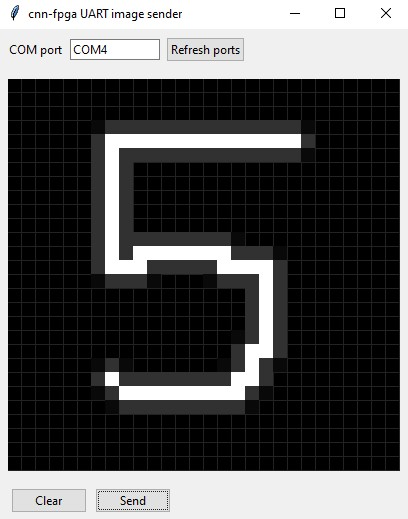
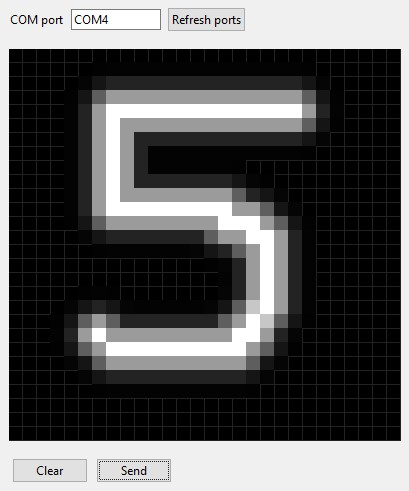
better image brush

diff --git a/python/test_fpga.py b/python/test_fpga.py
@@ -18,7 +18,8 @@ except ImportError:
 DEFAULT_BAUD = 115200
 GRID = 28
 CELL_PX = 14
-BRUSH_SIGMA = 0.55
+BRUSH_SIGMA = 0.4
+BRUSH_FADE_MULTIPLIER = 2.5
 
 
 def quantize_to_uart_bytes(image: np.ndarray) -> bytes:
@@ -137,20 +138,18 @@ def run_gui(port_hint: str = "") -> None:
         def _apply_brush_segment(self, r0: int, c0: int, r1: int, c1: int) -> None:
             x0, y0 = c0 + 0.5, r0 + 0.5
             x1, y1 = c1 + 0.5, r1 + 0.5
-            margin = int(math.ceil(self._brush_sigma * 4))
+            fade_sigma = self._brush_sigma * BRUSH_FADE_MULTIPLIER
+            margin = int(math.ceil(fade_sigma * 3.5))
             r_lo = max(0, min(r0, r1) - margin)
             r_hi = min(GRID - 1, max(r0, r1) + margin)
             c_lo = max(0, min(c0, c1) - margin)
             c_hi = min(GRID - 1, max(c0, c1) + margin)
-            inv_two_s2 = 1.0 / (2.0 * self._brush_sigma * self._brush_sigma)
-            cutoff_sq = (self._brush_sigma * 3.5) ** 2
+            inv_two_sigma = 1.0 / (2.0 * fade_sigma * fade_sigma)
             for r in range(r_lo, r_hi + 1):
                 for c in range(c_lo, c_hi + 1):
                     px, py = c + 0.5, r + 0.5
                     d_sq = _dist_sq_point_segment(px, py, x0, y0, x1, y1)
-                    if d_sq > cutoff_sq:
-                        continue
-                    v = 255.0 * math.exp(-d_sq * inv_two_s2)
+                    v = 255.0 * math.exp(-d_sq * inv_two_sigma)
                     if v > self.grid[r, c]:
                         self.grid[r, c] = v
                         self._set_cell_visual(r, c)
@@ -159,7 +158,8 @@ def run_gui(port_hint: str = "") -> None:
             vi = int(round(self.grid[r, c]))
             vi = max(0, min(255, vi))
             fill = f"#{vi:02x}{vi:02x}{vi:02x}"
-            self.canvas.itemconfig(self.rects[r][c], fill=fill, outline=fill)
+            outline = "#222" if vi == 0 else fill
+            self.canvas.itemconfig(self.rects[r][c], fill=fill, outline=outline)
 
         def _clear(self) -> None:
             self._prev = None
